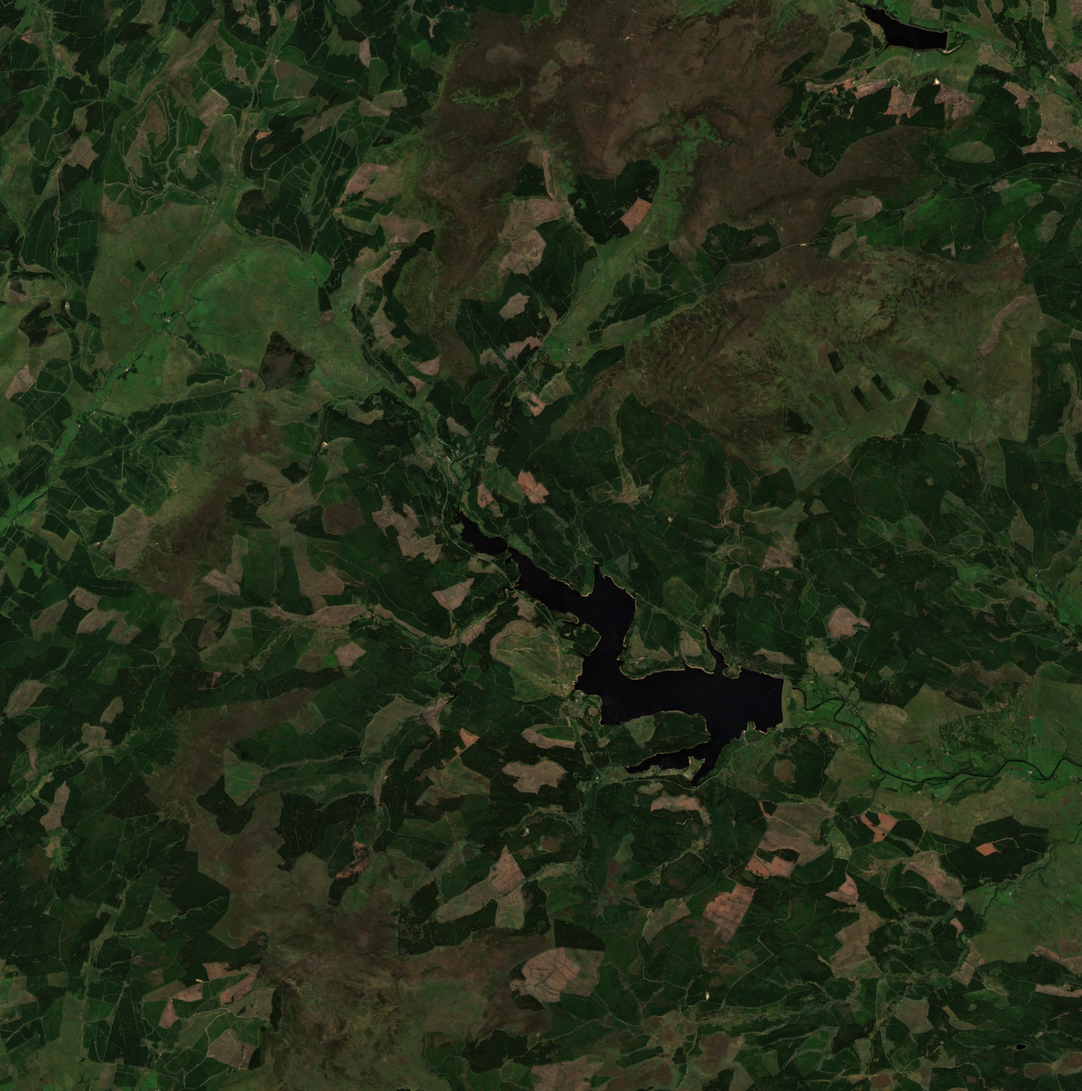
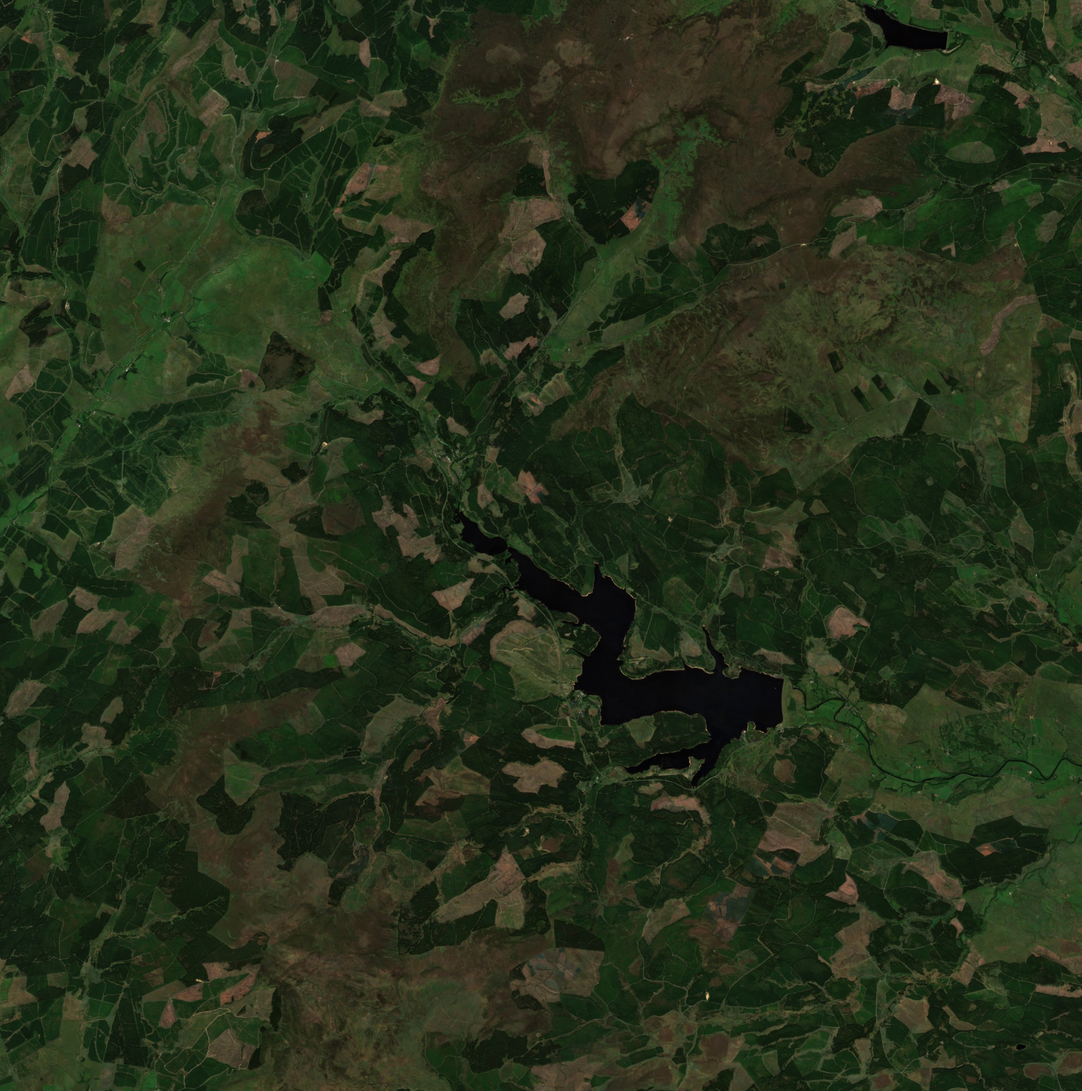
Never paint satellite clouds: tiered fill instead of the all-scene median
build_imagery.py grows SCL cloud, cirrus and shadow by 100 m, takes up to 20
recent summer scenes, and fills each pixel from recent clear looks, then older
summers, then looser SCL classes, then its surroundings. Per-tier shares go in
meta.json. Rebuilds the Plymouth and Kielder imagery. See
docs/satellite-cloud-free-imagery.md.

Claude-Session: https://claude.ai/code/session_013Y92Vz19YghnsgrUmEYazp

diff --git a/scripts/detail/build_imagery.py b/scripts/detail/build_imagery.py
@@ -4,9 +4,21 @@ Writes public/data/detail/<area>/imagery.jpg: true colour at 10 m on the area's 
 (north up, covering meta.json's xMin..xMax, yMin..yMax). The ground shader takes the real
 field pattern, crops and moorland colours from it, and adds its own detail close up.
 
-The image is a per-pixel median of the clear pixels in the summer scenes with least cloud,
-using each scene's scene classification (SCL) to drop cloud, cloud shadow and snow. Scenes
-come from the public Sentinel-2 L2A Cloud-Optimised GeoTIFFs on AWS (s3://sentinel-cogs),
+The image is a per-pixel median of clear summer looks. Each scene's scene classification (SCL)
+marks the clear pixels, with cloud, cirrus and cloud shadow grown by 100 m to catch soft edges
+the SCL misses. No cloudy pixel ever reaches the output: each pixel takes the first of these
+that has data (see docs/satellite-cloud-free-imagery.md):
+
+  1. recent summers (RECENT_YEARS) with at least MIN_LOOKS clear looks,
+  2. clear looks from any summer in OLDER_YEARS or RECENT_YEARS,
+  3. looser masking that also accepts SCL dark area and unclassified (topographic shadow,
+     bright rock), still never cloud, cirrus or cloud shadow,
+  4. a fill from the surrounding pixels.
+
+meta.json's "imagery" records the share of pixels from each tier, so tiles that lean on tiers 3
+and 4 can be checked by eye.
+
+Scenes come from the public Sentinel-2 L2A Cloud-Optimised GeoTIFFs on AWS (s3://sentinel-cogs),
 read anonymously, so no account is needed.
 
 Contains modified Copernicus Sentinel data.
@@ -18,6 +30,7 @@ import json
 import os
 import pathlib
 import sys
+import warnings
 from concurrent.futures import ThreadPoolExecutor
 
 import numpy as np
@@ -27,6 +40,7 @@ from PIL import Image
 from rasterio.enums import Resampling
 from rasterio.transform import from_origin
 from rasterio.vrt import WarpedVRT
+from scipy import ndimage
 
 ROOT = pathlib.Path(__file__).resolve().parents[2]
 CACHE = ROOT / ".cache" / "detail" / "imagery"
@@ -34,12 +48,20 @@ BUCKET = "sentinel-cogs/sentinel-s2-l2a-cogs"
 
 # Sentinel-2 (MGRS) tile holding each area.
 TILES = {"plymouth": "30/U/VA", "kielder": "30/U/WG", "tintagel": "30/U/UB"}
-MONTHS = [(y, m) for y in (2023, 2024, 2025) for m in (5, 6, 7, 8, 9)]
-MAX_CLOUD = 40  # % of the tile
-MAX_SCENES = 14
+RECENT_YEARS = (2023, 2024, 2025)
+OLDER_YEARS = (2019, 2020, 2021, 2022)  # only read where recent looks run short
+SUMMER = (5, 6, 7, 8, 9)
+MAX_CLOUD = 60  # % of the tile; the per-area clear share below does the real selection
+MAX_SCENES = 20  # per year group
+MIN_SHARE = 0.3  # least share of the area a scene must see clear
+MIN_LOOKS = 3
 PIXEL = 10  # metres
-# SCL classes that are ground: vegetation, bare soil, water.
+GROW = 100  # metres to grow cloud, cirrus and cloud shadow by
+# SCL classes: ground (vegetation, bare soil, water), loose extras (dark area, unclassified),
+# and the ones never used (cloud shadow, cloud medium/high, cirrus).
 CLEAR = (4, 5, 6)
+LOOSE = (2, 7)
+CLOUDY = (3, 8, 9, 10)
 
 os.environ.setdefault("AWS_NO_SIGN_REQUEST", "YES")
 os.environ.setdefault("AWS_REGION", "us-west-2")
@@ -59,8 +81,11 @@ def s3():
     )
 
 
-def scenes(tile):
-    """Summer scenes of the tile with their cloud and no-data percentages."""
+def scenes(tile, years):
+    """Summer scenes of the tile, least cloudy first, one per date (latest processing)."""
+    cache = CACHE / f"scenes-{tile.replace('/', '')}-{years[0]}-{years[-1]}.json"
+    if cache.exists():
+        return [tuple(s) for s in json.loads(cache.read_text())]
     fs = s3()
 
     def month(ym):
@@ -77,8 +102,15 @@ def scenes(tile):
         return out
 
     with ThreadPoolExecutor(8) as ex:
-        found = [s for part in ex.map(month, MONTHS) for s in part]
-    return sorted(s for s in found if s[0] <= MAX_CLOUD and s[1] <= 60)
+        found = [s for part in ex.map(month, [(y, m) for y in years for m in SUMMER]) for s in part]
+    # S2A_30UVA_20250701_0_L2A and _1_L2A are the same pass processed twice.
+    latest = {}
+    for s in sorted(found, key=lambda s: s[2]):
+        latest[s[2].split("/")[-1].rsplit("_", 2)[0]] = s
+    keep = sorted(s for s in latest.values() if s[0] <= MAX_CLOUD and s[1] <= 60)
+    cache.parent.mkdir(parents=True, exist_ok=True)
+    cache.write_text(json.dumps(keep))
+    return keep
 
 
 def read(path, band, meta, resampling):
@@ -93,48 +125,116 @@ def read(path, band, meta, resampling):
 
 
 def scene_pixels(path, meta):
-    cache = CACHE / (path.split("/")[-1] + f"-{meta['xMin']}.npz")
+    """True colour plus clear and loose masks for one scene."""
+    cache = CACHE / (path.split("/")[-1] + f"-{meta['xMin']}-{meta['yMax']}-scl.npz")
     if cache.exists():
         z = np.load(cache)
-        return z["rgb"], z["ok"]
-    rgb = read(path, "TCI", meta, Resampling.bilinear)
-    scl = read(path, "SCL", meta, Resampling.nearest)[0]
-    ok = np.isin(scl, CLEAR) & (rgb.min(axis=0) > 0)
-    cache.parent.mkdir(parents=True, exist_ok=True)
-    np.savez_compressed(cache, rgb=rgb, ok=ok)
-    return rgb, ok
+        rgb, scl = z["rgb"], z["scl"]
+    else:
+        rgb = read(path, "TCI", meta, Resampling.bilinear)
+        scl = read(path, "SCL", meta, Resampling.nearest)[0]
+        cache.parent.mkdir(parents=True, exist_ok=True)
+        np.savez_compressed(cache, rgb=rgb, scl=scl)
+    valid = rgb.min(axis=0) > 0
+    near_cloud = ndimage.distance_transform_edt(~np.isin(scl, CLOUDY)) * PIXEL <= GROW
+    clear = np.isin(scl, CLEAR) & valid & ~near_cloud
+    loose = np.isin(scl, CLEAR + LOOSE) & valid & ~near_cloud
+    return rgb, clear, loose
+
+
+def pick(found, meta, limit):
+    """Read scenes, least cloudy first, keeping up to `limit` that see enough of the area."""
+    kept = []
+    with ThreadPoolExecutor(6) as ex:
+        # Read in batches so we stop soon after enough scenes are found.
+        for i in range(0, len(found), 6):
+            batch = found[i:i + 6]
+            for (cloud, nodata, path), (rgb, clear, loose) in zip(
+                    batch, ex.map(lambda s: scene_pixels(s[2], meta), batch)):
+                share = clear.mean()
+                print(f"  {path.split('/')[-1]}: tile cloud {cloud:.0f}%, clear here {share:.0%}")
+                if share >= MIN_SHARE and len(kept) < limit:
+                    kept.append((rgb, clear, loose))
+            if len(kept) >= limit:
+                break
+    return kept
+
+
+def median(stack, masks):
+    """Per-pixel median of the masked looks (NaN where none) and the number of looks."""
+    height, width = masks[0].shape
+    out = np.empty((3, height, width), np.float32)
+    looks = np.zeros((height, width), np.int16)
+    # In strips of rows, so 40 scenes of a 25 km tile fit in memory.
+    for y0 in range(0, height, 256):
+        rows = slice(y0, y0 + 256)
+        rgb = np.stack([s[:, rows] for s in stack]).astype(np.float32)  # scene, band, y, x
+        ok = np.stack([m[rows] for m in masks])
+        rgb[~np.broadcast_to(ok[:, None], rgb.shape)] = np.nan
+        with warnings.catch_warnings():
+            warnings.simplefilter("ignore", RuntimeWarning)  # all-NaN pixels
+            out[:, rows] = np.nanmedian(rgb, axis=0)
+        looks[rows] = ok.sum(axis=0)
+    return out, looks
+
+
+def inpaint(image):
+    """Fill NaN pixels from their surroundings with ever wider blurs."""
+    hole = np.isnan(image[0])
+    weight = (~hole).astype(np.float32)
+    data = np.nan_to_num(image)
+    for sigma in (2, 4, 8, 16, 32, 64, 128):
+        den = ndimage.gaussian_filter(weight, sigma)
+        need = np.isnan(image[0]) & (den > 0.05)
+        for c in range(3):
+            image[c][need] = (ndimage.gaussian_filter(data[c] * weight, sigma) / np.maximum(den, 1e-6))[need]
+        if not np.isnan(image[0]).any():
+            break
+    return image
 
 
 def main(area):
     out = ROOT / "public" / "data" / "detail" / area
     meta = json.loads((out / "meta.json").read_text())
-    found = scenes(TILES[area])
-    print(f"{len(found)} summer scenes under {MAX_CLOUD}% cloud")
-    stack, masks = [], []
-    for cloud, nodata, path in found:
-        rgb, ok = scene_pixels(path, meta)
-        share = ok.mean()
-        print(f"  {path.split('/')[-1]}: tile cloud {cloud:.0f}%, clear here {share:.0%}")
-        if share < 0.3:
-            continue
-        stack.append(rgb)
-        masks.append(ok)
-        if len(stack) >= MAX_SCENES:
-            break
-    rgb = np.stack(stack).astype(np.float32)  # scene, band, y, x
-    ok = np.stack(masks)[:, None]
-    rgb[~np.broadcast_to(ok, rgb.shape)] = np.nan
-    median = np.nanmedian(rgb, axis=0)
-    # Pixels never seen clear: fall back to the median of every scene.
-    fallback = np.median(np.stack(stack).astype(np.float32), axis=0)
-    median = np.where(np.isnan(median), fallback, median)
-    image = np.clip(median, 0, 255).astype(np.uint8).transpose(1, 2, 0)
+    tile = TILES[area]
+
+    recent = scenes(tile, RECENT_YEARS)
+    print(f"{len(recent)} recent summer scenes under {MAX_CLOUD}% cloud")
+    kept = pick(recent, meta, MAX_SCENES)
+    image, looks = median([k[0] for k in kept], [k[1] for k in kept])
+    tier = np.where(looks >= MIN_LOOKS, 1, 0)
+    used = len(kept)
+
+    if (tier == 0).any():
+        older = scenes(tile, OLDER_YEARS)
+        print(f"{(tier == 0).sum()} pixels short of looks; adding from {len(older)} older scenes")
+        kept += pick(older, meta, MAX_SCENES)
+        used = len(kept)
+        all_years, n = median([k[0] for k in kept], [k[1] for k in kept])
+        fill = (tier == 0) & (n > 0)
+        image[:, fill] = all_years[:, fill]
+        tier[fill] = 2
+
+    if (tier == 0).any():
+        loose, n = median([k[0] for k in kept], [k[2] for k in kept])
+        fill = (tier == 0) & (n > 0)
+        image[:, fill] = loose[:, fill]
+        tier[fill] = 3
+
+    if (tier == 0).any():
+        image[:, tier == 0] = np.nan
+        image = inpaint(image)
+        tier[tier == 0] = 4
+
+    shares = {f"tier{t}": round(float((tier == t).mean()), 6) for t in (1, 2, 3, 4)}
+    print("pixel shares:", shares)
+    image = np.clip(image, 0, 255).astype(np.uint8).transpose(1, 2, 0)
     Image.fromarray(image).save(out / "imagery.jpg", quality=90)
-    meta["imagery"] = dict(pixel=PIXEL, width=image.shape[1], height=image.shape[0], scenes=len(stack))
+    meta["imagery"] = dict(pixel=PIXEL, width=image.shape[1], height=image.shape[0], scenes=used, **shares)
     meta["attribution"] = meta["attribution"].split("; Contains modified Copernicus")[0] + \
         "; Contains modified Copernicus Sentinel data"
-    (out / "meta.json").write_text(json.dumps(meta, indent=2))
-    print(f"wrote imagery.jpg {image.shape[1]}x{image.shape[0]} from {len(stack)} scenes")
+    (out / "meta.json").write_text(json.dumps(meta, indent=2) + "\n")
+    print(f"wrote imagery.jpg {image.shape[1]}x{image.shape[0]} from {used} scenes")
 
 
 if __name__ == "__main__":

diff --git a/docs/satellite-cloud-free-imagery.md b/docs/satellite-cloud-free-imagery.md
@@ -103,6 +103,28 @@ terrain build is owned by the "Terrain, towns and forests" work, so the change s
 there before `build_imagery.py` is edited, and the two committed test tiles (Plymouth, Kielder)
 rebuilt to check nothing else moves.
 
+## Done (2026-10-22)
+
+Andy agreed steps 1 to 4. `build_imagery.py` now does them, with a tile cloud limit of 60% (the
+per-area clear share does the real selection) and up to 20 recent plus 20 older scenes. Older
+scenes are only read when some pixel has fewer than 3 recent clear looks. Only the two test tiles
+were rebuilt, not the UK bake.
+
+| Tile | Tier 1 (recent) | Tier 2 (older years) | Tier 3 (loose SCL) | Tier 4 (inpaint) | Scenes | Time in the cloud container |
+| --- | --- | --- | --- | --- | --- | --- |
+| Plymouth | 99.94% | 0.06% | 0.0005% | 0% | 40 | 2.5 min |
+| Kielder | 100% (under 0.0001% elsewhere) | 0% | 0% | 0% | 40 | 1.7 min |
+
+Both images look almost the same as before: mean change 3 to 4 levels out of 255, and about 0.3%
+of pixels change by more than 25, mostly fields at a different crop stage. Neither old image had
+visible cloud, so the change is insurance for the north and the islands rather than a visible fix
+here. The new images are very slightly duller, probably because hazier days now take part in the
+median; the shader's colour grade can absorb that. The shares are in each tile's `meta.json`
+under `imagery`.
+
+The scripts' memory use went up with more scenes, so the median is now computed in strips of 256
+rows (a 25 km tile with 40 scenes ran out of 15 GB before that).
+
 ## Sources
 
 - [Sentinel-2 cloudless licence (EOX)](https://cloudless.eox.at/license-non-commercial)
